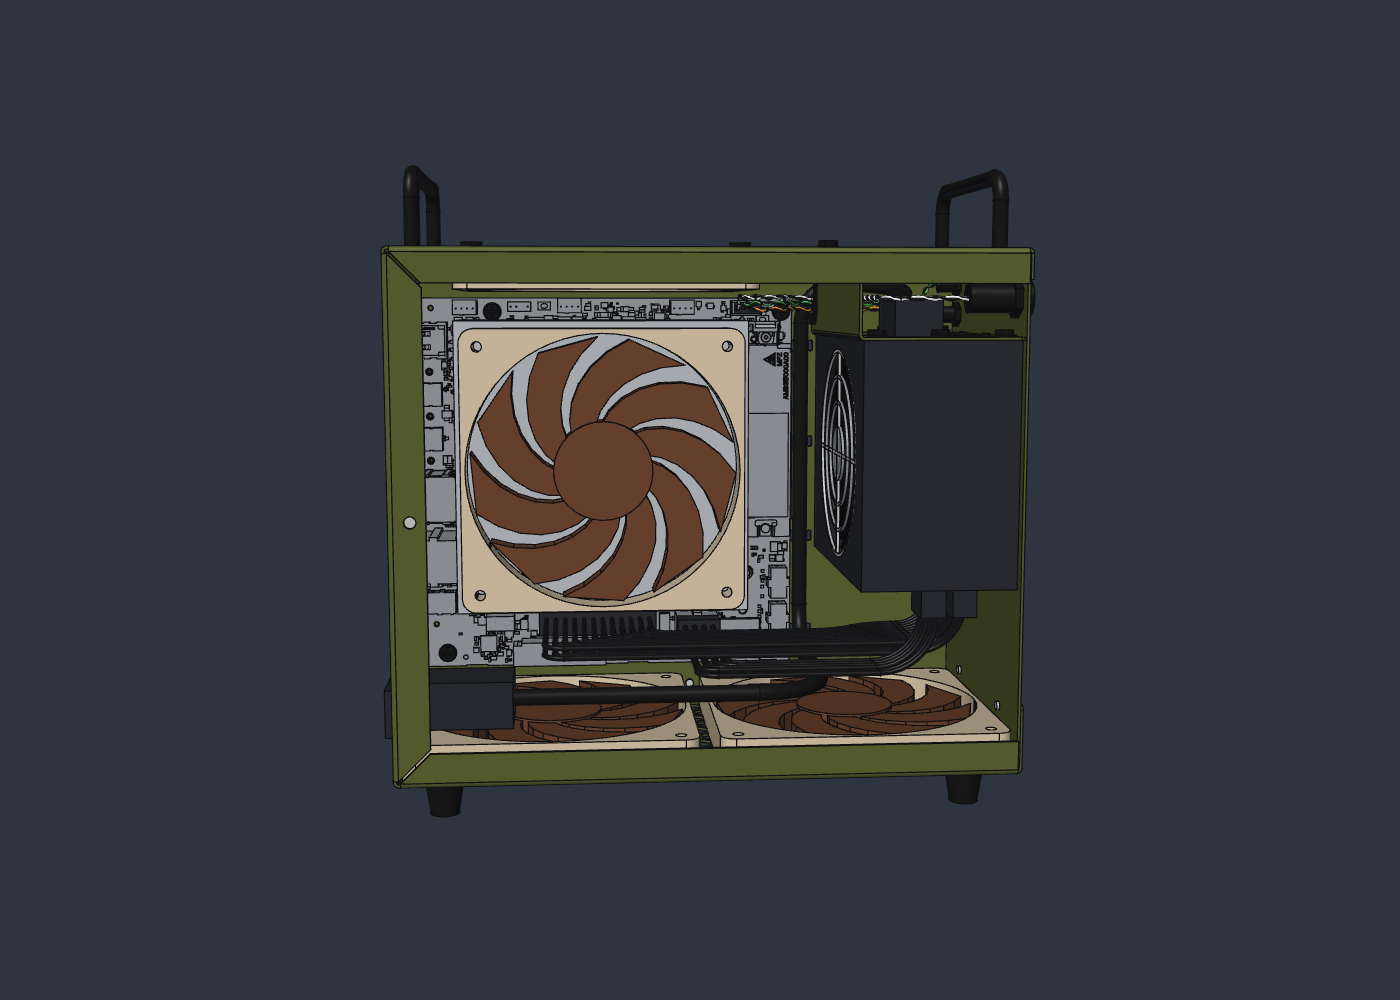
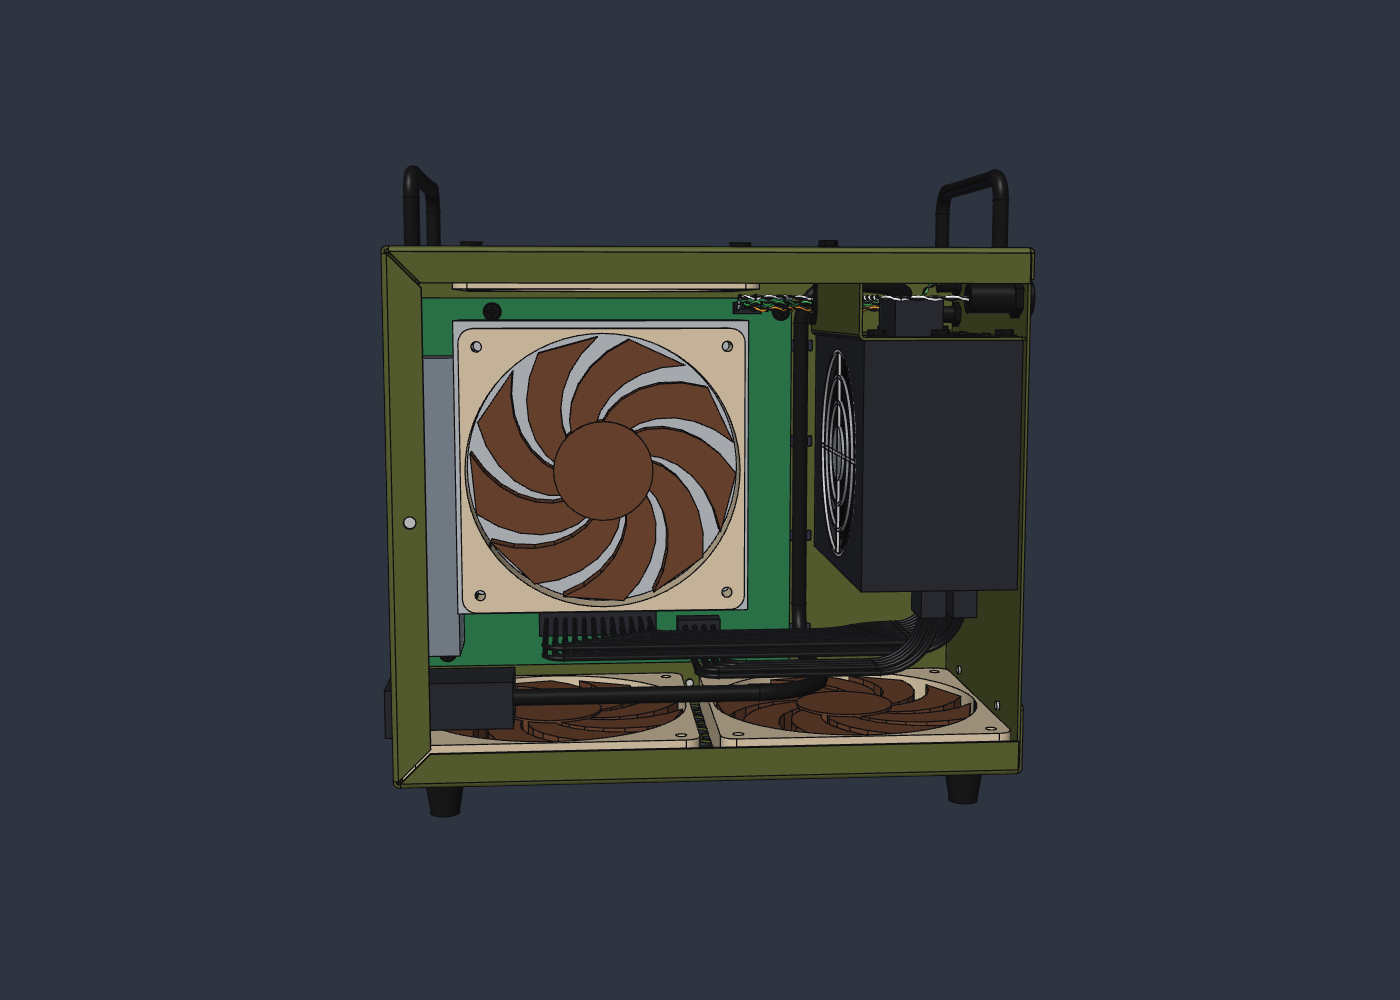
refactor: remove the high detail model
reactor.py no longer imports Framework's board model or reports how it
fits, so it builds two designs: the sheet metal and one assembly with
the board as a block. The pictures are rendered from that assembly.

Changed region(s): [[0.2764, 0.279, 0.5836, 0.651], [0.3071, 0.589, 0.4607, 0.682], [0.3071, 0.527, 0.3379, 0.558]]

diff --git a/mechanical/reactor.py b/mechanical/reactor.py
@@ -1,16 +1,13 @@
-"""Build the Reactor in SolidCraft, as three designs.
+"""Build the Reactor in SolidCraft, as two designs.
 
   python3 mechanical/reactor.py            reactor.sc: the five sheet metal parts alone, which is what a shop
                                            makes, with their flat patterns and bend tables.
                                            reactor-low-detail.sc: the same parts with the fans, power supply,
                                            handles, lamps and every screw, nut and stud in place, the board
                                            drawn as a block, and a check for clashes.
-                                           reactor-high-detail.sc: that assembly with Framework's own model of
-                                           the board in the block's place, and a report of how it fits. Only
-                                           built when Framework's model is there.
   python3 mechanical/reactor.py --sheet    the sheet metal design and its exports only
 
-The two assemblies are too big to commit, so .gitignore leaves them out.
+The assembly is too big to commit, so .gitignore leaves it out.
 
 Talks to the running desktop app over its MCP bridge. SOLIDCRAFT_MCP holds the
 command line that starts the bridge, for example "solidcraft-cli mcp --connect
@@ -30,13 +27,7 @@ import sys
 REPO = os.path.dirname(os.path.dirname(os.path.abspath(__file__)))
 DESIGN = os.path.join(REPO, "mechanical", "reactor.sc")
 EXPORT = os.path.join(REPO, "mechanical", "export")
-# Framework's own model of the board (CC BY 4.0), from github.com/FrameworkComputer/Framework-Desktop,
-# Mainboard/FRAMEWORK_DESKTOP_MAIN_PCB_V01.stp. It is 73 MB and makes the design 26 MB and slow to
-# rebuild, so the model stays outside the repo and the assembly that holds it is not committed.
-MAINBOARD_STEP = os.path.expanduser("~/.cache/reactor/framework-desktop/FRAMEWORK_DESKTOP_MAIN_PCB_V01.stp")
 LOW_DETAIL = os.path.join(REPO, "mechanical", "reactor-low-detail.sc")    # the board as a block
-HIGH_DETAIL = os.path.join(REPO, "mechanical", "reactor-high-detail.sc")  # Framework's board
-WITH_BOARD = os.path.exists(MAINBOARD_STEP)    # without Framework's model only the first is built
 BLOCK_BOARD = ["ref-mainboard", "ref-rear-ports"]
 IMAGES = os.path.join(REPO, "docs", "images")
 
@@ -965,15 +956,6 @@ def edge_trim():
     return s + paint([n], BLACK)
 
 
-def framework_board():
-    """Framework's model of the board in place of the block. The file has the board in its XZ plane,
-    parts toward +Y, ports along its low-Z edge, with the board's top face at y 10.9 and its corners at
-    x -178.6..-8.6, z 1.7..171.7."""
-    return [("solid.remove", {"bodies": BLOCK_BOARD}),
-            ("file.insert_step", {"path": MAINBOARD_STEP, "name": "framework-mainboard", "matrix": [
-                0, 0, 1, BOARD_X - 1.7, 0, -1, 0, BOARD_Y + 10.9, 1, 0, 0, BOARD_Z + 178.6]})]
-
-
 def rotor(name, at, n, hub, tip, h, color):
     """Hub and nine swept blades, as a body of its own."""
     xd, yd = frame(n)
@@ -1234,19 +1216,7 @@ def main():
     sc.batch(show, "show")
     sc.call("save", {"path": LOW_DETAIL})
     m = sc.call("measure", {"summary": True})
-    clashes(sc, [b["name"] for b in m["bodies"] if ours(b["name"])])
-    if WITH_BOARD:
-        sc.batch(framework_board() + show, "framework's board")
-        sc.call("save", {"path": HIGH_DETAIL})
-        m = sc.call("measure", {"summary": True})
-        clashes(sc, [b["name"] for b in m["bodies"] if ours(b["name"])])
-        board_fit(sc, m)
-
-
-def ours(n):
-    """A body this script made, as against one of the board model's."""
-    return n.split(" ")[0] in SHEET or n.startswith(("ref-", "foot-", "screw-", "nut-", "standoff-", "stud-", "led-", "lamp-", "trim-", "wire-",
-                                                     "join-", "switch"))
+    clashes(sc, [b["name"] for b in m["bodies"]])
 
 
 # a fastener shares volume with what it threads into, the mains inlet's body with its own screws, and the
@@ -1300,32 +1270,6 @@ def report(sc):
             "bodies": [b], "path": os.path.join(EXPORT, b + ".step")}})
         print("%-8s flat %.1f x %.1f mm, %d bends, %d cut-outs" % (
             b, f["flat_size_mm"][0], f["flat_size_mm"][1], len(f.get("bends", [])), len(f.get("cutouts", []))))
-
-
-def board_fit(sc, m):
-    """How Framework's model of the board sits in the case, from its bodies' extents and its holes."""
-    parts = [b for b in m["bodies"] if not ours(b["name"]) and "bbox" in b]   # the outline body has no volume to measure
-    lo = [min(b["bbox"]["min"][i] for b in parts) for i in range(3)]
-    hi = [max(b["bbox"]["max"][i] for b in parts) for i in range(3)]
-    print("board and its parts: x %.2f..%.2f  y %.2f..%.2f  z %.2f..%.2f" % (lo[0], hi[0], lo[1], hi[1], lo[2], hi[2]))
-    holes = sc.call("body_topology", {"body": "LFSP0_MB_PCB", "faces": "cylinders"})
-    holes = [f for v in holes.values() if isinstance(v, list) for f in v if abs(f["radius"] - 1.98) < 0.01]
-    for u, v in BOARD_HOLES:
-        x, z = BOARD_X + u, BOARD_Z + BOARD - v
-        off = min(math.hypot(f["origin"][0] - x, f["origin"][2] - z) for f in holes)
-        print("standoff at x %.2f z %.2f: nearest board hole %.2f away" % (x, z, off))
-    print("rear panel: nearest part %.2f inside it" % lo[0])
-    for b in parts:
-        a, c = b["bbox"]["min"], b["bbox"]["max"]
-        if a[0] < 3 and "PCB" not in b["name"] and "EMN" not in b["name"]:
-            # a connector's legs go through the board, so only its body above the board is compared
-            print("  %-32s to aperture edges: %.1f above, %.1f at the board side, %.1f below, %.1f on top" % (
-                b["name"][:32], a[1] - IO_Y[0], IO_Y[1] - min(c[1], BOARD_Y), a[2] - IO_Z[0], IO_Z[1] - c[2]))
-    print("tray: nearest part %.2f from it" % (TRAY_Y - hi[1]))
-    print("open side: tallest part %.1f above the board, %.1f from the shell" % (BOARD_Y - lo[1], lo[1] + T + GAP))
-    print("bottom fans: lowest part %.1f above them" % (lo[2] - FAN_T))
-    print("top fan: highest part %.1f below it" % (LZ - FAN_T - hi[2]))
-    print("PSU fan face: %.1f from the nearest part" % (PSU_X - hi[0]))
 
 
 if __name__ == "__main__":

diff --git a/mechanical/renders.py b/mechanical/renders.py
@@ -56,7 +56,7 @@ VIEWS = {
 def main():
     sc = reactor.Bridge()
     for _ in range(8):   # the assembly's tab, whichever is shown
-        if sc.call("inspect_design").get("name") == os.path.splitext(os.path.basename(reactor.HIGH_DETAIL))[0]:
+        if sc.call("inspect_design").get("name") == os.path.splitext(os.path.basename(reactor.LOW_DETAIL))[0]:
             break
         sc.call("execute", {"command": "view.next_tab", "params": {}})
     else:

diff --git a/README.md b/README.md
@@ -64,7 +64,7 @@ three, they win.
 ## Where things are
 
 - [mechanical/reactor.py](mechanical/reactor.py) builds it in SolidCraft, as
-  three designs. [mechanical/reactor.sc](mechanical/reactor.sc) is
+  two designs. [mechanical/reactor.sc](mechanical/reactor.sc) is
   the sheet metal alone, which is what a shop makes.
   [mechanical/export/](mechanical/export/) has what a shop quotes from: a
   STEP model, a flat pattern and a bend table for each part, and
@@ -74,15 +74,12 @@ three, they win.
   `reactor-low-detail.sc`
   is the whole machine: the same parts with the fans, the supply, the
   handles and every screw, nut and stud in place, and the mainboard drawn as
-  a block, for looking at and for checking that nothing clashes. The third,
-  `reactor-high-detail.sc`, is that with Framework's own model of
-  the mainboard in the block's place. Both assemblies have the mains lead
-  and every wire of the power, switch and lamp cables drawn in them, which
-  makes them 65 to 75 MB, so neither is committed: reactor.py builds them
-  beside the sheet metal design, the third when Framework's model has
-  been fetched.
+  a block, for looking at and for checking that nothing clashes. It has the mains
+  lead and every wire of the power, switch and lamp cables drawn in it, which
+  makes it about 70 MB, so it is not committed: reactor.py builds it beside
+  the sheet metal design.
 
-  ![Open, with the Framework board](docs/images/board-open.png)
+  ![Open, from the board side](docs/images/board-open.png)
 
   The layout follows the KXRORS M02: the board on a tray against one side
   wall, an SFX supply standing in front of it with its fan toward the board

diff --git a/docs/before-ordering.md b/docs/before-ordering.md
@@ -24,9 +24,7 @@ home. Nothing is tapped or countersunk by the shop.
 
 - Clashes: the whole assembly, 149 bodies with every screw, nut, stud, handle and fan
   in place and the mains lead on its route, has no two parts sharing volume apart from threads in what they
-  screw into. Framework's own board model sits on the four standoffs to
-  0.00 mm, 0.5 inside the rear panel, 3.0 under the top fan, 7.0 over the
-  bottom fans and 13.1 from the supply.
+  screw into.
 - Mini-ITX and ATX: the four holes, the 158.75 x 44.45 rear aperture and its
   position from the board, the 12.27 from the rear holes to the panel and
   the 0.94 to 1.32 panel thickness, against ATX 2.2 figures 3 and 4.
